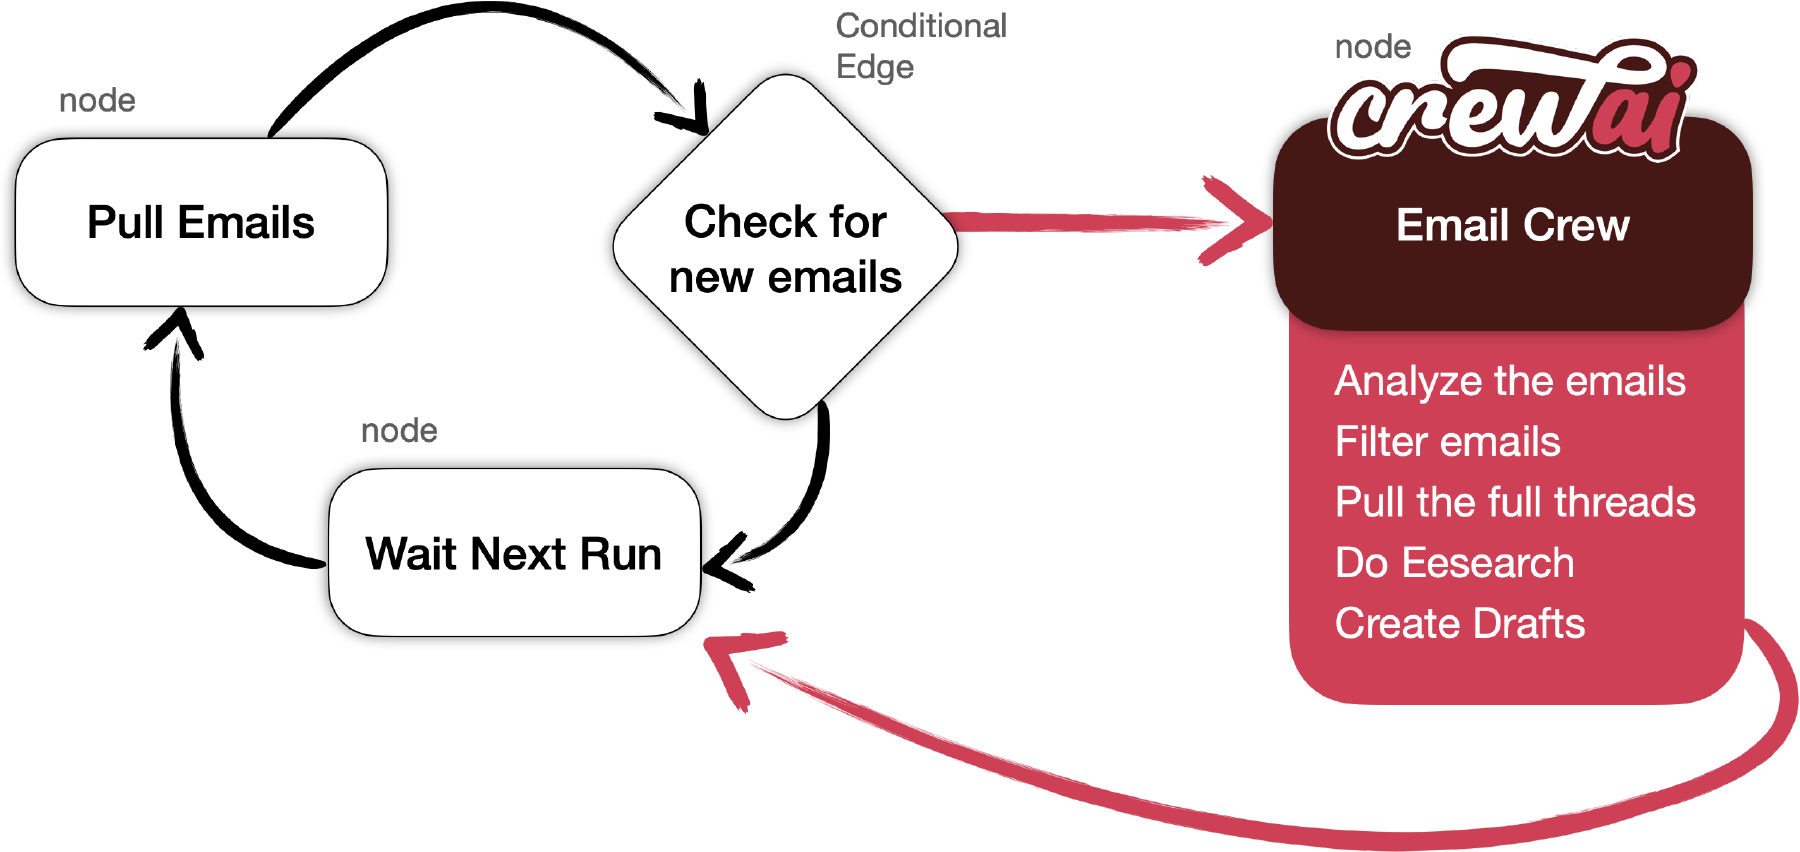
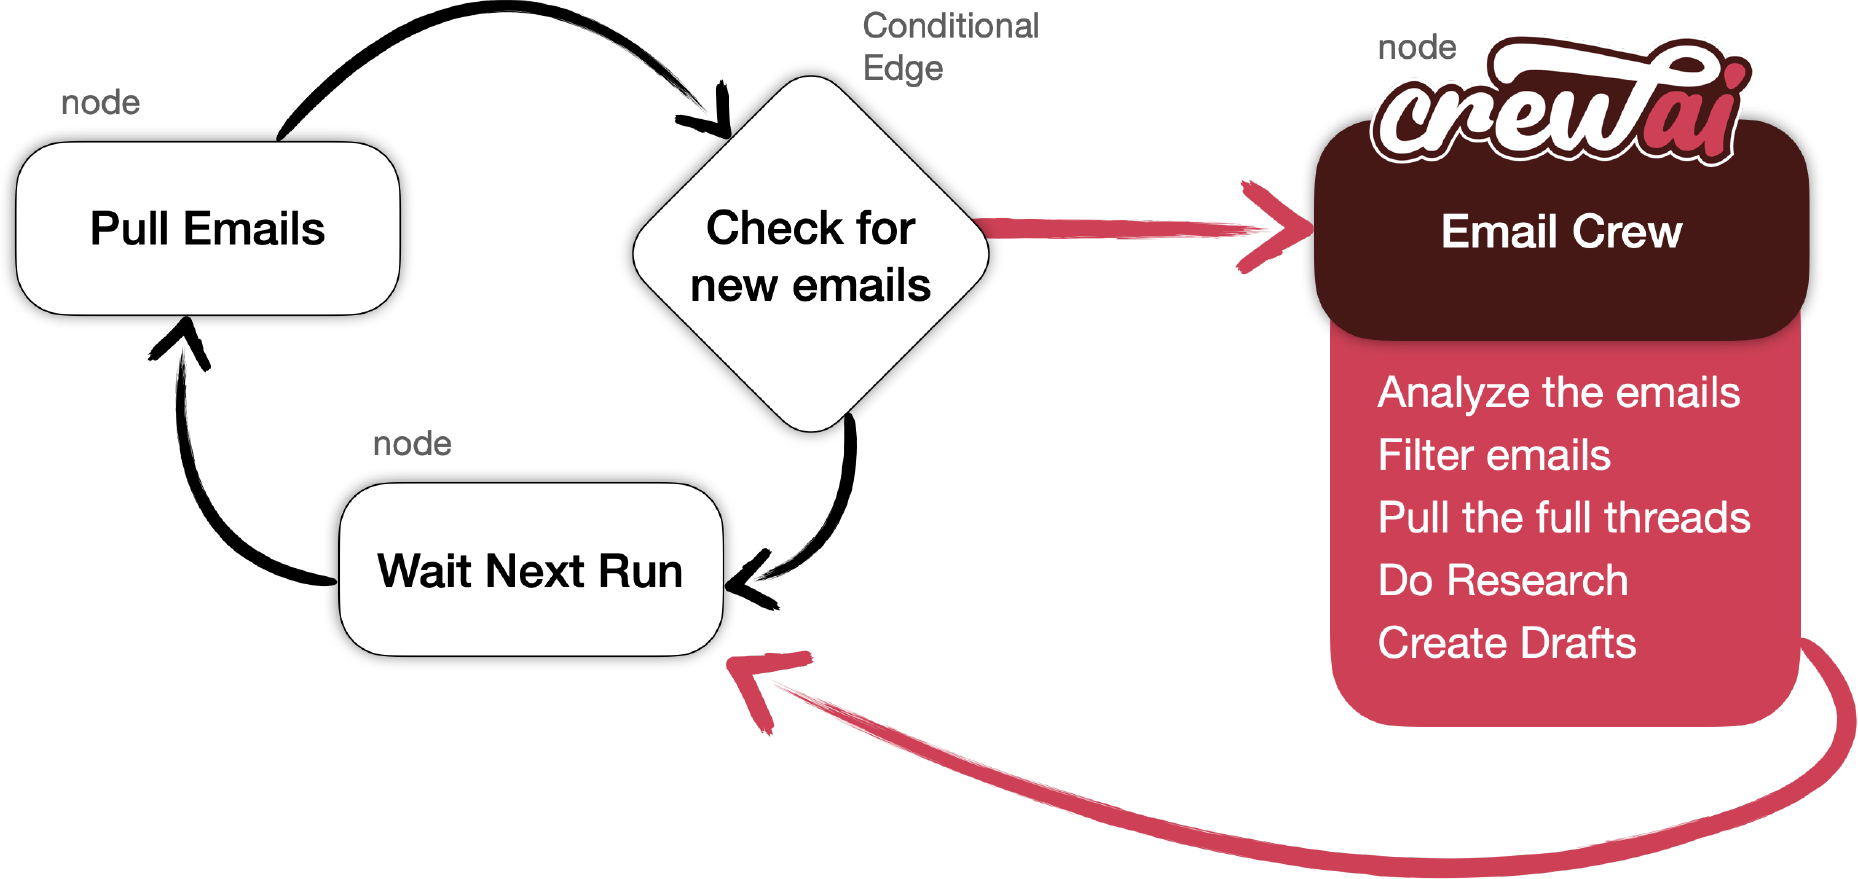
updating tasks and fixing TYPO

diff --git a/CrewAI-LangGraph/src/crew/tasks.py b/CrewAI-LangGraph/src/crew/tasks.py
@@ -49,7 +49,11 @@ class EmailFilterTasks:
 				Based on the action-required emails identified, draft responses for each.
 				Ensure that each response is tailored to address the specific needs
 				and context outlined in the email.
-				Assume the persona of the user and mimic the communication style in the thread.
+
+				- Assume the persona of the user and mimic the communication style in the thread.
+				- Feel free to do research on the topic to provide a more detailed response, IF NECESSARY.
+				- IF a research is necessary do it BEFORE drafting the response.
+				- If you need to pull the thread again do it using only the actual Thread ID.
 
 				Use the tool provided to draft each of the responses.
 				When using the tool pass the following input:
